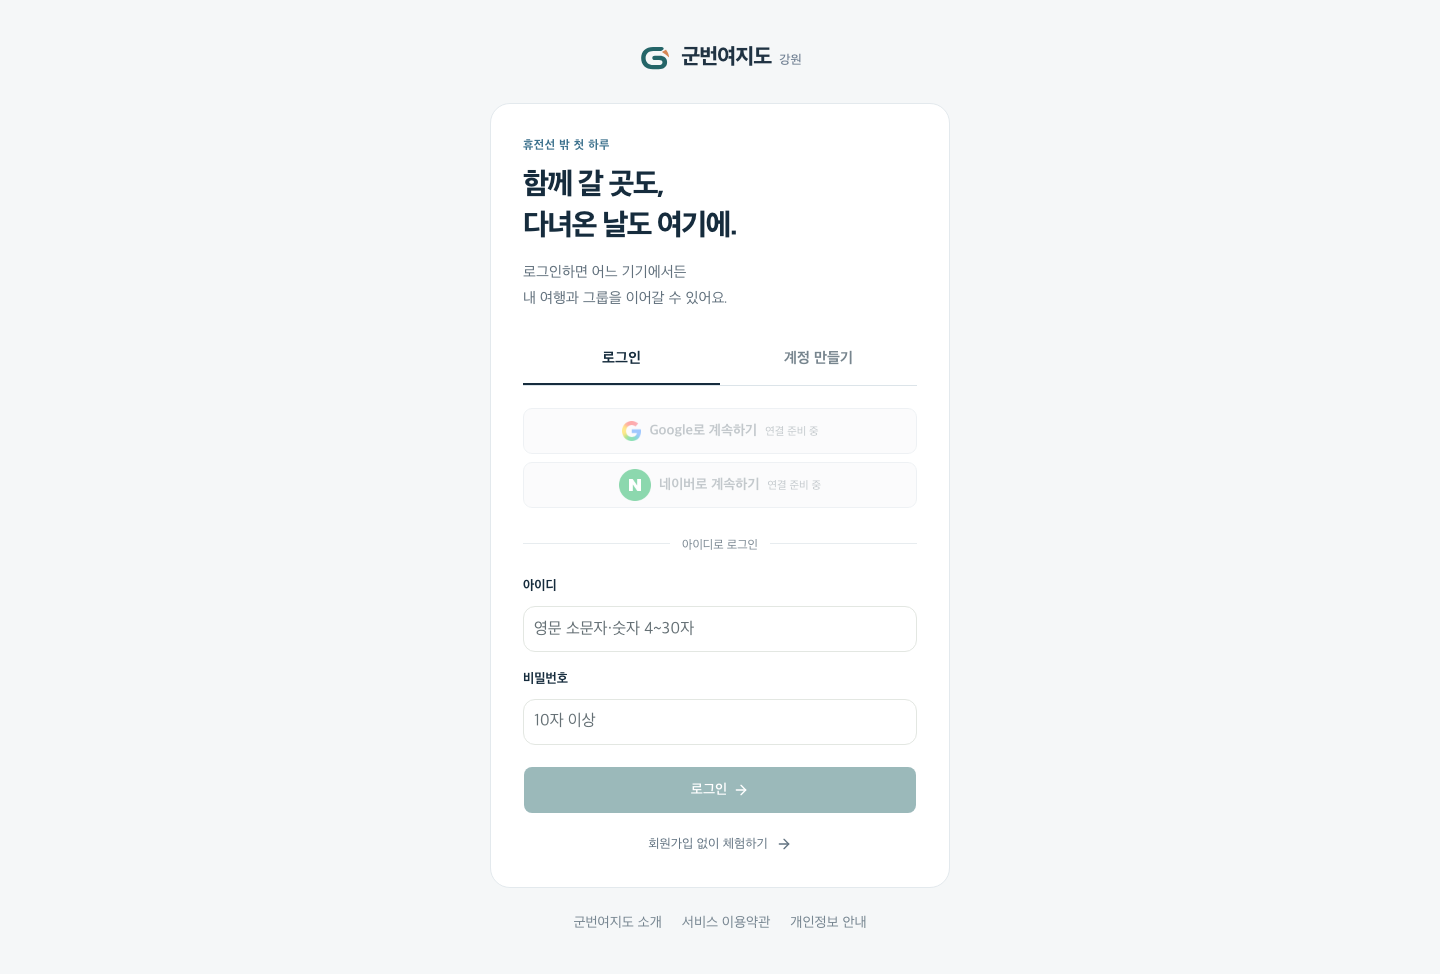
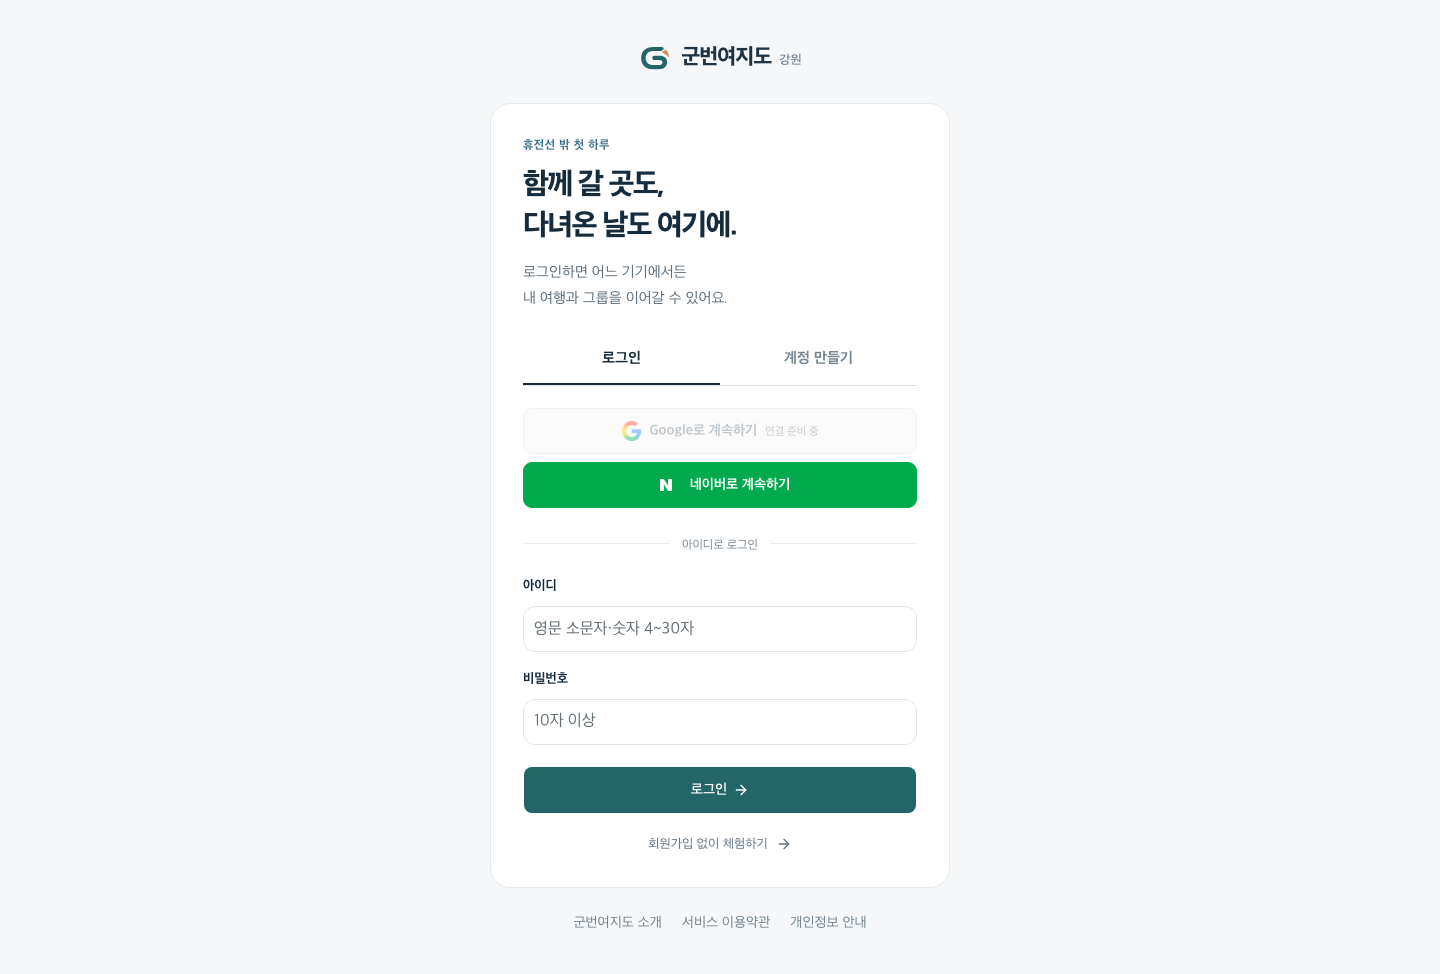
docs: record terms rollout brand validation and next-PC handoff

Changed region(s): [[0.3438, 0.77, 0.6562, 0.8316], [0.3438, 0.462, 0.6562, 0.5236]]

diff --git a/docs/handoff.md b/docs/handoff.md
@@ -1,8 +1,14 @@
 # 개발 인수인계
 
-## 로고 후보 선택 — 2026-09-15
+## 공개 이용약관·B 로고 확정 — 2026-09-15
 
-새 로고 3안과 생성 프롬프트는 [후보 기록](../reports/brand-concepts/2026-09-15/README.md)에 있다. **사용자가 A/B/C 중 선택한 뒤** 140×140을 포함한 등록·홍보 키트를 제작한다. 현재는 선택용 PNG 원본만 추가했으며 앱 로고·Sites v17은 그대로다. 다음 PC에서도 생성 도구의 임시 경로 대신 저장소의 세 PNG와 prompts.json을 사용한다. master의 후보 문서/에셋 커밋은 `git log -1 -- reports/brand-concepts`로 확인한다. 기능 코드 변경이 없어 앱 검사는 재실행하지 않았다.
+사용자가 **B ‘다시 만나는 길’**을 선택했다. [이미지 키트](../assets/brand-kit/README.md)의 source/symbol.svg가 마스터이며 140×140 포함 16개 PNG, 단색 SVG, 폰트/OFL, 재현 스크립트가 있다. image_gen의 후속 투명 출력은 실패해 사용하지 않았고 최종 파일은 선택안 기반 SVG를 정리하여 렌더링했다. 키트 ZIP과 140 PNG는 운영 /brand/의 공개 다운로드다. 다음 PC는 저장소 파일로 작업한다.
+
+- **/terms** 공개 페이지, /login·/account·/about·/privacy·앱 하단 연결. [OAuth 입력 주소](social-login-setup.md) 갱신. 약관 동의 기록·자동 탈퇴·제공자 검수를 새로 구현/완료한 것은 아니다. 전용 비공개 문의 창구는 운영 후속 과제다.
+- 기능 `aacbe9b`, 문서 `fa1773f`, [PR27](https://github.com/MySonIsSoldier/gunbeon-yeojido/pull/27) 병합 `ca55db0d344501df65cbd48cf9c6312a93fccfe8` (03:56:50UTC). 품질 검사·전체 브라우저 CI5분46초 통과. [전달 보고](../reports/terms_brand_delivery_2026-09-15.md). 최종 기록 SHA는 git log -1로 확인한다.
+- 공개 **Sites v18**: source `b82711477d649f41896a7a32fbc07aca15f4aed1`, version `appgprj_6a9e5a33eaa08191a72a52abf77522cc~appgver_a8708f3a7c008191a67c40c21f15cba8`, deployment `appgdep_6aa8c0e2a47081918d52644711074df3` succeeded **9/15 03:52:29 UTC**, env revision2. 기존 공개 URL 유지. GitHub web/source tree `ef8915adae5f18a45139e90363184efbbaf4c6bd` 일치. D1·API 키 변경 없음.
+- TypeScript·99 단위·빌드 통과. Chromium151 320/430/1440px에서 비로그인 약관 본문10절, 링크·공개 자산, 개인 API401·가로 넘침 없음 확인. 실제 16 PNG 크기와 투명 파일의 알파 확인. 로그인 캡처는 계정 상태 조회 완료 후 촬영했다.
+- 기존 후보 A/C는 기록용이다. 다시 선택 요청하지 않는다. 최종 대표 이미지는 기능설명서와 실제 상세 화면3~5장을 대체하지 않으며 제출 후속 과제는 아래 계획을 이어간다.
 
 
 ## 최신 일정 보기 개선 — 2026-09-15

diff --git a/reports/terms_brand_delivery_2026-09-15.md b/reports/terms_brand_delivery_2026-09-15.md
@@ -21,4 +21,12 @@
 
 앱 Brand, 브라우저 아이콘, Apple touch icon, PWA, 대표 미리보기, 공개 다운로드에 확정 B를 적용한다. 개인 공개 한 수 페이지는 해당 여행의 제목을 유지하며 일반 브랜드 이미지를 상속하지 않는다.
 
-검사·게시 결과는 최종 전달 시 아래에 추가한다.
+## 검사·게시
+
+- TypeScript·단위99개·프로덕션 빌드 통과.
+- Chromium151 320/430/1440px: 익명 /terms200·본문10절·소개/로그인 약관 링크·공개 로고/ZIP 다운로드, 개인 /api/account/state·/api/places401 보존. 가로 넘침·페이지 오류 없음. [화면과 결과](qa/terms-brand-2026-09-15/summary.json).
+- PNG16종의 실제 픽셀 크기와 투명 파일의 모서리 alpha0 확인. [자산 검증](qa/terms-brand-2026-09-15/assets.json). 로고·대표·세로 이미지 및 약관/로그인 캡처를 직접 시각 확인했다. 물리적 휴대폰·현재 Edge 검증은 별도로 수행하지 않았다.
+- 공개 Sites **v18**, source `b82711477d649f41896a7a32fbc07aca15f4aed1`, 배포 `appgdep_6aa8c0e2a47081918d52644711074df3` succeeded 2026-09-15 03:52:29UTC, env revision2. 공개 정책과 데이터 스키마·비밀값 유지. GitHub web과 소스 트리 일치.
+- [서비스 이용약관](https://gunbeon-yeojido-gangwon.ybuser.chatgpt.site/terms), [140 PNG](https://gunbeon-yeojido-gangwon.ybuser.chatgpt.site/brand/gunbeon-logo-140.png), [키트 ZIP](https://gunbeon-yeojido-gangwon.ybuser.chatgpt.site/brand/gunbeon-brand-kit-v1.zip). 기존 Sites 탭에 약관 페이지 열기를 요청했다.
+- GitHub 기능 `aacbe9b`, 문서 `fa1773f`, [PR27](https://github.com/MySonIsSoldier/gunbeon-yeojido/pull/27). 후속 최종 커밋은 git log로 확인한다.
+- PR27 병합 `ca55db0d344501df65cbd48cf9c6312a93fccfe8`, 2026-09-15 03:56:50UTC. 품질 검사2회 및 [전체 브라우저 CI](https://github.com/MySonIsSoldier/gunbeon-yeojido/actions/runs/34926513232) 5분46초 통과. 최종 전달 기록과 준비 완료 상태로 다시 촬영한 로그인 이미지, PNG 알파 검증을 master에 후속 push한다.

diff --git a/docs/roadmap.md b/docs/roadmap.md
@@ -1,5 +1,7 @@
 # 9월 21일 제출까지 남은 목표
 
+9/15 추가 완료: 공개 이용약관 /terms와 로그인·소개·개인정보 상호 링크, B ‘다시 만나는 길’ 로고 확정 및 140×140 포함 등록/홍보 키트, 앱/PWA 아이콘 반영. 공개 Sitesv18. [이미지 사용 안내](../assets/brand-kit/README.md). 지정 기능설명서와 실제 상세 화면 제출물은 별도로 남아 있다.
+
 9/15 추가 완료: 일정 보기/편집 분리, 여행 색감 보완, 그룹 카드 더보기, 지도 번호 터치 겹침 보완. Google/Naver는 발급값·운영 설정 및 실제 동의 검증이 남음. [전달 기록](../reports/itinerary_view_2026-09-15.md).
 
 목표는 **2026-09-21 16:00 KST 전** 접근 가능한 웹/PWA, 지정 기능설명서·이미지·실제 활용 API 근거를 준비하고 참가 계정에서 제출을 완료하는 것이다. 공식 조건은 `reports/submission_assets.md`, `reports/notion_requirements.md`의 원문을 제출 직전 다시 확인한다.

diff --git a/README.md b/README.md
@@ -8,6 +8,8 @@
 
 [화면으로 보는 사용 가이드](https://gunbeon-yeojido-gangwon.ybuser.chatgpt.site/guide) · [사진 원문·이용조건 검토 목록](reports/photo_sources.md)
 
+[서비스 이용약관](https://gunbeon-yeojido-gangwon.ybuser.chatgpt.site/terms) · [개인정보 안내](https://gunbeon-yeojido-gangwon.ybuser.chatgpt.site/privacy) · [확정 B 로고·이미지 키트](assets/brand-kit/README.md) · [키트 ZIP 다운로드](https://gunbeon-yeojido-gangwon.ybuser.chatgpt.site/brand/gunbeon-brand-kit-v1.zip)
+
 소스 저장소: [MySonIsSoldier/gunbeon-yeojido](https://github.com/MySonIsSoldier/gunbeon-yeojido) · [기존 clone 연결 변경 안내](docs/local-setup.md#기존-clone의-조직-저장소-연결)
 
 ## 일정 보기와 편집
